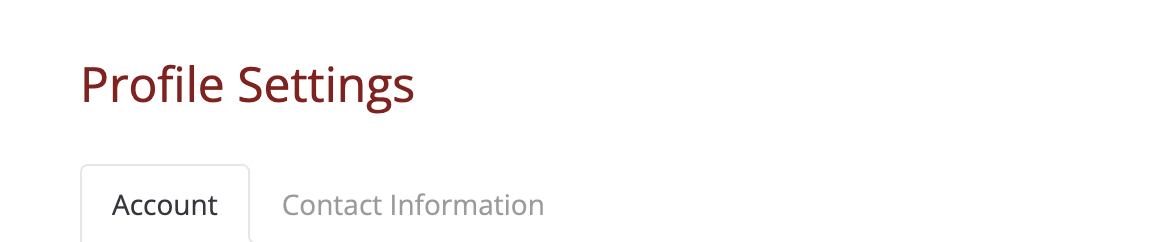
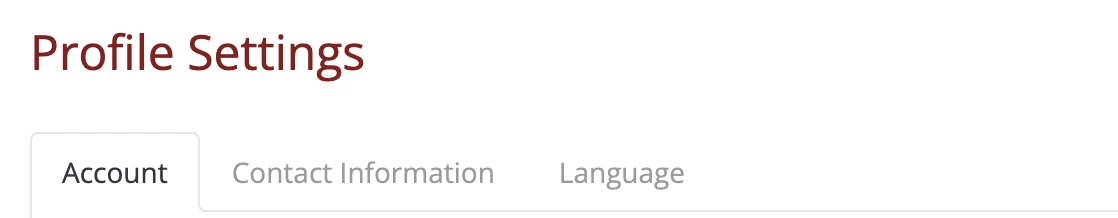
Update profile docs with password changes (#1015)
* Update images in profile docs

* Update docs for Language Tab

* Add docs for new download icon added in submission groups table

* Add more images to include newer functionality

* Update change password docs in user profile docs

* Update docs for table sorting functionality

* Fix extra underline for heading

* Add clarity to docs for Table sorting functionality

* Add sorting docs for sortings submissions undera group too

* Correct the ordering of the document

diff --git a/docs/application_overview/user-profile.rst b/docs/application_overview/user-profile.rst
@@ -9,7 +9,7 @@ user profile page is accessible by clicking on "Profile" on the navigation bar.
     :alt: User profile on the navigation bar
 
 
-The Profile page has two tabs: "Account" and "Contact Information".
+The Profile page has three tabs: "Account", "Contact Information", and "Language".
 
 .. image:: images/user_profile_tabs.webp
     :alt: User profile tabs
@@ -17,15 +17,22 @@ The Profile page has two tabs: "Account" and "Contact Information".
 Account Tab
 -----------
 In the Account tab, users can view and edit their personal information. This includes
-their name, email address and email notification preference, however, the email address field is read-only and cannot be changed from the Profile page. Users can also change their password here.
-
-The "Receive notification emails?" checkbox allows users to control whether they want to receive
+their name, email address and email notification preference, however, the email address field is read-only and cannot be changed from the Profile page. The "Receive notification emails?" checkbox allows users to control whether they want to receive
 email notifications for new submissions. By default, this checkbox is checked.
 
 .. image:: images/profile_account_populate.webp
     :alt: User profile personal information
 
 To save changes made to personal information, click on the "Save" button.
+
+Users can also change their password here by clicking on the change password button towards the top right of the Account tab. This will lead them to a password change page.
+
+.. image:: images/user_profile_change_password.webp
+    :alt: User profile account change password
+
+On this page, users can enter their old password and new password along with its confirmation to change their passwords.
+
+
 
 Contact Information Tab
 -----------------------
@@ -40,6 +47,15 @@ By completing this information once in your profile, these details will be autom
 
 .. image:: images/submission_step_2_prefilled.webp
     :alt: Auto Populate step 2 of submission form
+
+Language Tab
+------------
+The Language tab allows users to change the language of the application. This is useful for users who are not comfortable with English, or who prefer to use a different language.
+
+.. image:: images/profile_language_switcher.webp
+    :alt: Language switcher tab
+
+
 
 In-Progress Submissions
 -----------------------
@@ -148,6 +164,11 @@ group.
 .. image:: images/create_submission_group.webp
     :alt: Create submission group
 
+In the Submission Groups table on the Profile page, clicking on the download icon will export all submissions in that group as a CSV file for download.
+
+.. image:: images/user_profile_submission_groups_download.webp
+    :alt: User profile submission groups download
+
 
 The user can also view and modify the details of an existing submission group by clicking on the
 blue eye icon for that group in the table on the profile page.
@@ -155,7 +176,7 @@ blue eye icon for that group in the table on the profile page.
 .. image:: images/user_profile_submission_groups_view.webp
     :alt: User profile submission groups
 
-This will take the user to a page where they can modify the group name and group description, and also view past submissions made under this group.
+This will take the user to a page where they can modify the group name and group description, and also view past submissions made under this group. Users can also sort the submissions within the group using the same sorting functionality available on the main Profile page tables.
 
 .. image:: images/submission_group_details.webp
     :alt: Submission group details
@@ -176,3 +197,20 @@ When you do this, a confirmation dialog box will appear asking if you are sure y
 Click **Yes** to proceed with deleting the submission group. This will remove the group, but any submissions previously associated with it will remain intact, they will simply no longer be associated with any group.
 
 Click **Cancel** if you do not wish to proceed with the deletion. This will close the dialog and return you to the profile page without making any changes.
+
+Table Sorting Functionality
+---------------------------
+All tables on the Profile page (In-Progress Submissions, Past Submissions, and Submission Groups) include a Sort button located at the top right of each table. Users can click this button to sort the table data by different fields. When clicked, users can select which field to sort by and choose between ascending or descending order.
+
+.. image:: images/user_profile_sort.webp
+    :alt: User profile table sorting functionality
+
+On hovering over the Sort button, it shows how the current table is sorted right now.
+
+.. image:: images/user_profile_sort_hover.webp
+    :alt: User profile current sorting
+
+
+
+
+
